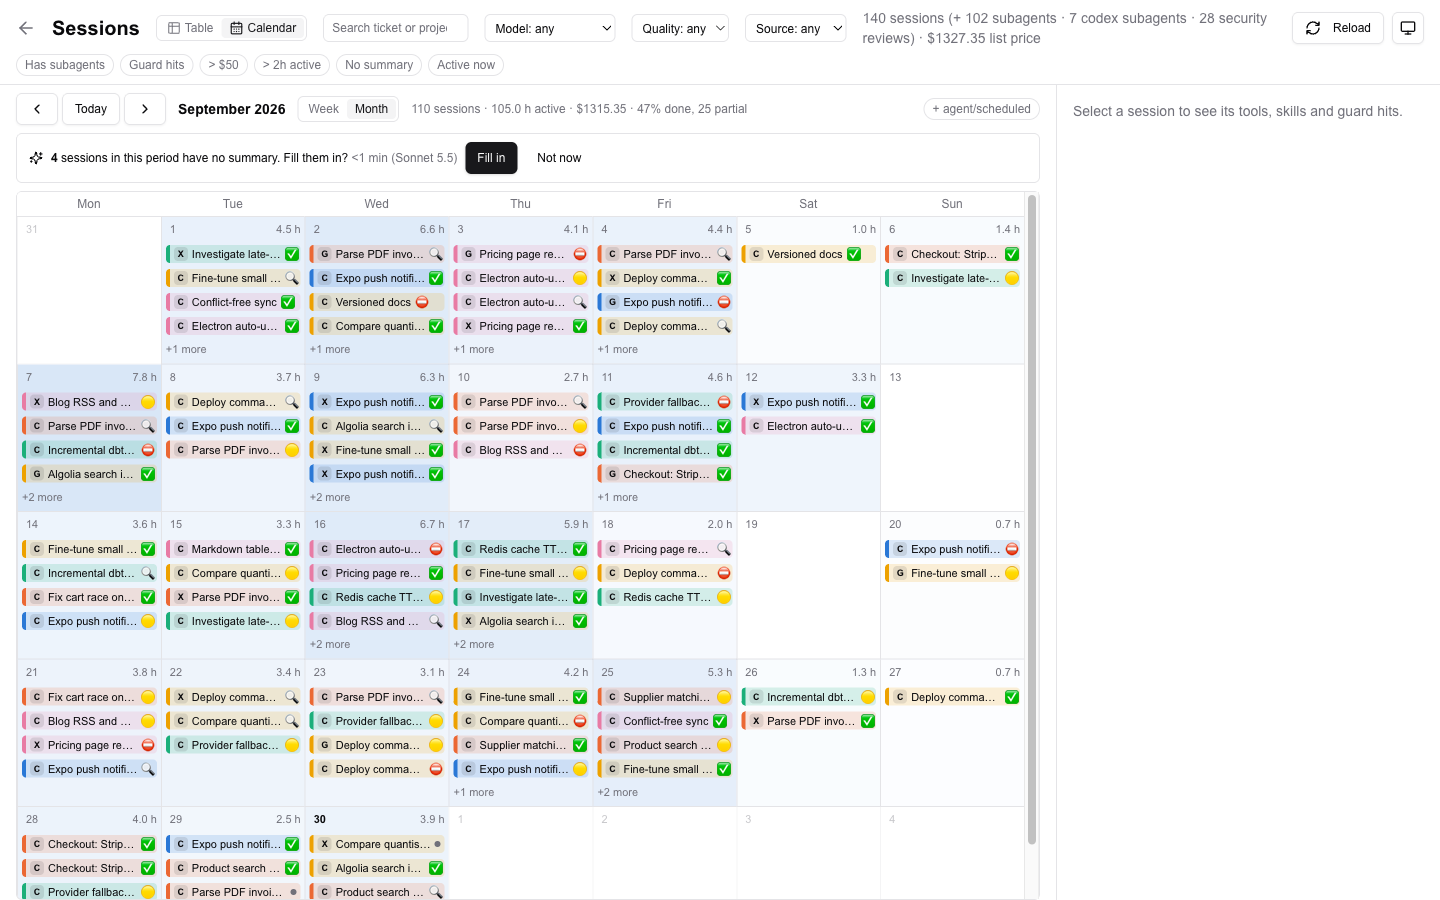
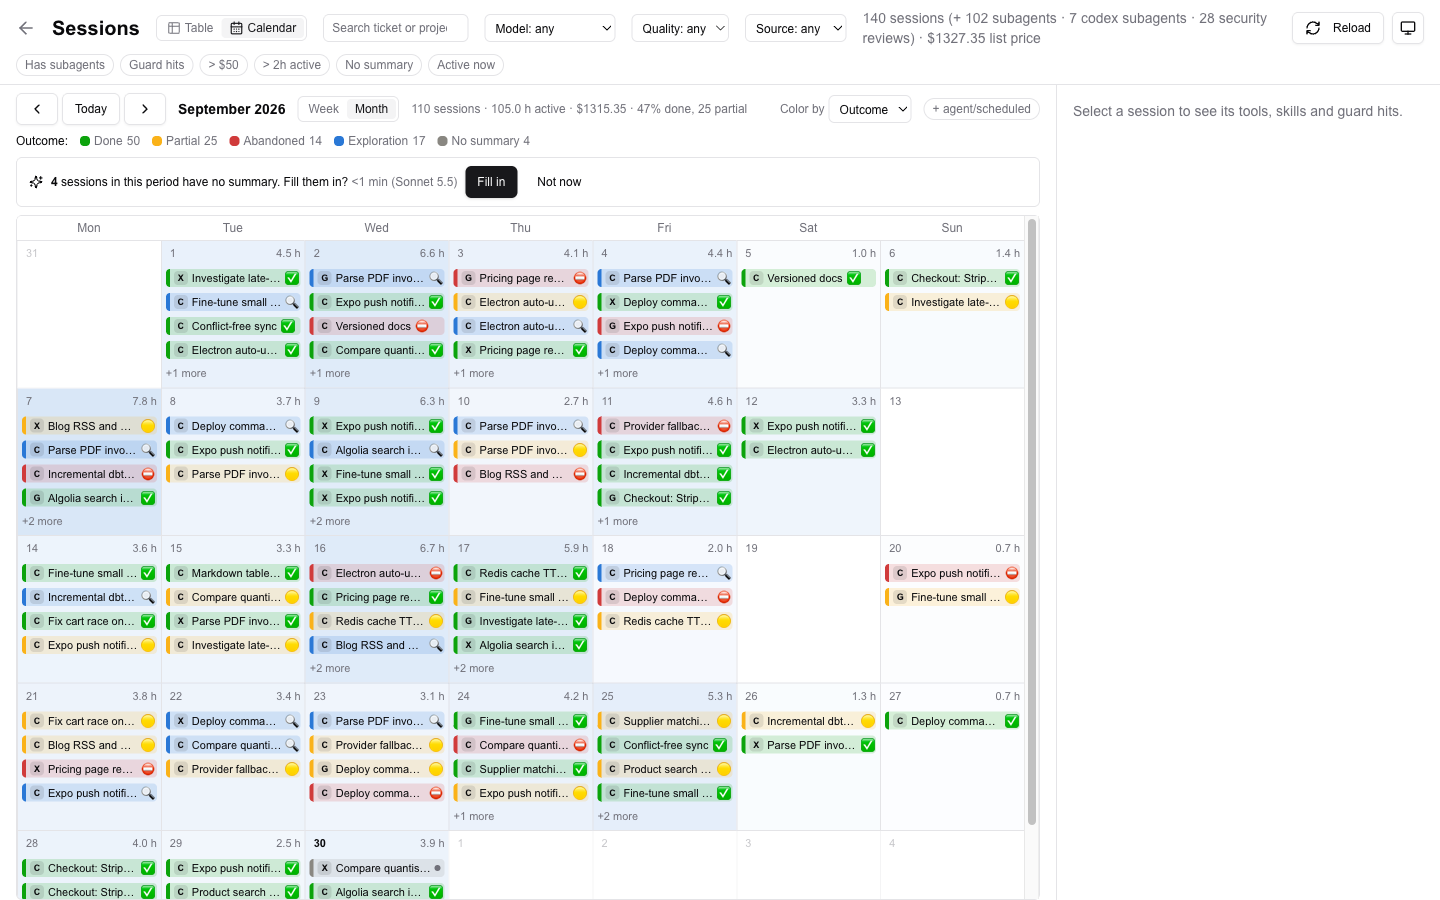
feat(sessions): switchable calendar colours (outcome, project, harness, kind, cost, quality) with legend

diff --git a/src/app/sessions/calendar-view.js b/src/app/sessions/calendar-view.js
@@ -5,8 +5,8 @@ import { format, isSameMonth, isToday } from 'date-fns'
 import { ChevronLeft, ChevronRight } from 'lucide-react'
 import { Button } from '@/components/ui/button'
 import {
-  bannerIds, calendarFamilies, calendarSlot, daySegment, harnessBadge, layoutDay, periodLabel, periodStats,
-  projectColor, shiftPeriod,
+  bannerIds, calendarFamilies, calendarSlot, colorBy, colorLegend, COLOR_MODES, DEFAULT_COLOR_MODE, daySegment,
+  harnessBadge, layoutDay, periodLabel, periodStats, shiftPeriod,
 } from '@/lib/cc/session-calendar.mjs'
 import { SummaryBanner } from './summary-banner'
 import { displayTitle, OUTCOME_ICON, parseSummary } from '@/lib/cc/summary-view.mjs'
@@ -15,6 +15,7 @@ const HOUR_PX = 44
 const projectName = (dir) => (dir ? dir.split('/').filter(Boolean).at(-1) : '—')
 const fmtCost = (c) => `$${(c || 0).toFixed(2)}`
 const fmtHours = (s) => `${(s / 3600).toFixed(1)} h`
+const COLOR_KEY = 'stow.calendar.colorBy'
 
 /**
  * `loadedKey`/`wantKey` (see loadKey): the families on hand may still be the
@@ -23,6 +24,15 @@ const fmtHours = (s) => `${(s / 3600).toFixed(1)} h`
  */
 export function CalendarView({ families, range, loadedKey, wantKey, selected, onOpen, onNavigate, onSpan, onRefresh }) {
   const [showAll, setShowAll] = useState(false)
+  // Per-viewer preference; read after mount so the server render stays stable.
+  const [colorMode, setColorMode] = useState(DEFAULT_COLOR_MODE)
+  useEffect(() => {
+    try { const v = localStorage.getItem(COLOR_KEY); if (v && COLOR_MODES[v]) setColorMode(v) } catch { /* storage blocked */ }
+  }, [])
+  function pickColor(v) {
+    setColorMode(v)
+    try { localStorage.setItem(COLOR_KEY, v) } catch { /* storage blocked */ }
+  }
   const events = useMemo(() => calendarFamilies(families, { showAll }), [families, showAll])
   const ready = loadedKey != null && loadedKey === wantKey
   const stats = ready ? periodStats(events.filter((e) => !e.muted)) : null
@@ -30,18 +40,20 @@ export function CalendarView({ families, range, loadedKey, wantKey, selected, on
   const missing = bannerIds({ loadedKey, wantKey, events })
   return (
     <div className="flex h-full min-w-0 flex-col">
-      <PeriodHeader range={range} stats={stats} showAll={showAll} onShowAll={setShowAll} onNavigate={onNavigate} onSpan={onSpan} />
+      <PeriodHeader range={range} stats={stats} showAll={showAll} onShowAll={setShowAll} onNavigate={onNavigate} onSpan={onSpan}
+        colorMode={colorMode} onColorMode={pickColor} />
+      <ColorLegend events={events} mode={colorMode} />
       <SummaryBanner ids={missing} periodKey={periodKey} onProgress={onRefresh} />
       {range.span === 'week'
-        ? <WeekGrid days={range.days} events={events} selected={selected} onOpen={onOpen} />
-        : <MonthGrid range={range} events={events} selected={selected} onOpen={onOpen} onNavigate={onNavigate} />}
+        ? <WeekGrid days={range.days} events={events} selected={selected} onOpen={onOpen} colorMode={colorMode} />
+        : <MonthGrid range={range} events={events} selected={selected} onOpen={onOpen} onNavigate={onNavigate} colorMode={colorMode} />}
     </div>
   )
 }
 
 const CHIPS_PER_DAY = 4
 
-function MonthGrid({ range, events, selected, onOpen, onNavigate }) {
+function MonthGrid({ range, events, selected, onOpen, onNavigate, colorMode }) {
   const byDay = useMemo(() => {
     const m = new Map()
     for (const e of events) {
@@ -83,7 +95,7 @@ function MonthGrid({ range, events, selected, onOpen, onNavigate }) {
             </div>
             <div className="space-y-0.5">
               {list.slice(0, CHIPS_PER_DAY).map((e) => (
-                <EventBlock key={e.session_id} e={e} compact selected={selected === e.session_id} onOpen={onOpen} />
+                <EventBlock key={e.session_id} e={e} compact colorMode={colorMode} selected={selected === e.session_id} onOpen={onOpen} />
               ))}
               {list.length > CHIPS_PER_DAY && (
                 <button onClick={() => openWeek(d)} className="text-[11px] text-muted-foreground hover:text-foreground">+{list.length - CHIPS_PER_DAY} more</button>
@@ -98,7 +110,7 @@ function MonthGrid({ range, events, selected, onOpen, onNavigate }) {
   )
 }
 
-function PeriodHeader({ range, stats, showAll, onShowAll, onNavigate, onSpan }) {
+function PeriodHeader({ range, stats, showAll, onShowAll, onNavigate, onSpan, colorMode, onColorMode }) {
   const doneShare = stats?.described ? Math.round((stats.done / stats.described) * 100) : null
   return (
     <div className="flex flex-wrap items-center gap-3 py-2">
@@ -120,14 +132,21 @@ function PeriodHeader({ range, stats, showAll, onShowAll, onNavigate, onSpan }) 
           {doneShare != null && ` · ${doneShare}% done, ${stats.partial} partial`}
         </> : 'Loading…'}
       </span>
+      <label className="ml-auto inline-flex items-center gap-1 text-xs text-muted-foreground">
+        Color by
+        <select value={colorMode} onChange={(ev) => onColorMode(ev.target.value)}
+          className="h-7 rounded-md border bg-transparent px-1.5 text-xs text-foreground focus:outline-none focus:ring-1 focus:ring-ring">
+          {Object.entries(COLOR_MODES).map(([k, m]) => <option key={k} value={k}>{m.label}</option>)}
+        </select>
+      </label>
       <button onClick={() => onShowAll(!showAll)} aria-pressed={showAll}
-        className={`ml-auto rounded-full border px-2 py-0.5 text-xs ${showAll ? 'border-primary bg-primary text-primary-foreground' : 'text-muted-foreground hover:bg-muted hover:text-foreground'}`}
+        className={`rounded-full border px-2 py-0.5 text-xs ${showAll ? 'border-primary bg-primary text-primary-foreground' : 'text-muted-foreground hover:bg-muted hover:text-foreground'}`}
         title="Also show agent spawns, scheduled runs and trivial sessions (muted)">+ agent/scheduled</button>
     </div>
   )
 }
 
-function WeekGrid({ days, events, selected, onOpen }) {
+function WeekGrid({ days, events, selected, onOpen, colorMode }) {
   const scroller = useRef(null)
   useEffect(() => { if (scroller.current) scroller.current.scrollTop = 7 * HOUR_PX }, [])
   const perDay = useMemo(() => days.map((day) => {
@@ -160,7 +179,7 @@ function WeekGrid({ days, events, selected, onOpen }) {
             <div key={+days[i]} className={`relative border-l ${isToday(days[i]) ? 'bg-muted/30' : ''}`}>
               {Array.from({ length: 24 }, (_, h) => <div key={h} className="absolute inset-x-0 border-t border-border/50" style={{ top: h * HOUR_PX }} />)}
               {segs.map((s) => (
-                <EventBlock key={s.e.session_id} e={s.e} selected={selected === s.e.session_id} onOpen={onOpen}
+                <EventBlock key={s.e.session_id} e={s.e} colorMode={colorMode} selected={selected === s.e.session_id} onOpen={onOpen}
                   style={{ top: (s.top / 60) * HOUR_PX, height: Math.max((s.height / 60) * HOUR_PX - 1, 14), left: `calc(${(s.col / s.cols) * 100}% + 1px)`, width: `calc(${100 / s.cols}% - 2px)` }} />
               ))}
             </div>
@@ -182,12 +201,29 @@ function OutcomeMark({ e }) {
   return <span title={sum.outcome} className="flex-none">{OUTCOME_ICON[sum.outcome] || ''}</span>
 }
 
-export function EventBlock({ e, style, selected, onOpen, compact = false }) {
+/** What the colours currently mean: one swatch per bucket, with how many shown sessions fall in it. */
+function ColorLegend({ events, mode }) {
+  const items = colorLegend(events, mode)
+  return (
+    <div className="mb-2 flex flex-wrap items-center gap-x-3 gap-y-1 text-xs text-muted-foreground" aria-label={`Colour legend: ${COLOR_MODES[mode]?.label}`}>
+      <span className="font-medium text-foreground">{COLOR_MODES[mode]?.label}:</span>
+      {items.map((b) => (
+        <span key={b.key} className={`inline-flex items-center gap-1 ${b.count === 0 ? 'opacity-50' : ''}`}>
+          {b.color && <span className="inline-block h-2.5 w-2.5 rounded-sm" style={{ background: b.color }} />}
+          {b.label} <span className="tabular-nums">{b.count}</span>
+        </span>
+      ))}
+    </div>
+  )
+}
+
+export function EventBlock({ e, style, selected, onOpen, compact = false, colorMode = DEFAULT_COLOR_MODE }) {
   const title = displayTitle(e) || 'Untitled session'
-  const color = projectColor(e.project_dir)
+  const bucket = colorBy(e, colorMode)
+  const color = bucket.color
   const r = e.rollup || e
   const mins = Math.round((r.active_s || 0) / 60)
-  const tip = `${title}\n${projectName(e.project_dir)} · ${format(new Date(e.started_at), 'HH:mm')} · ${mins} min active · ${fmtCost(r.cost_usd)}${e.sub_count ? ` · +${e.sub_count} sub` : ''}`
+  const tip = `${title}\n${projectName(e.project_dir)} · ${format(new Date(e.started_at), 'HH:mm')} · ${mins} min active · ${fmtCost(r.cost_usd)}${e.sub_count ? ` · +${e.sub_count} sub` : ''}\n${COLOR_MODES[colorMode]?.label}: ${bucket.label}`
   return (
     <button onClick={() => onOpen(e.session_id)} title={tip}
       className={`${compact ? 'relative w-full' : 'absolute'} overflow-hidden rounded-sm border-l-4 px-1 py-0.5 text-left text-[11px] leading-tight hover:z-10 hover:shadow ${e.muted ? 'opacity-50' : ''} ${selected ? 'ring-2 ring-ring' : ''}`}

diff --git a/src/app/globals.css b/src/app/globals.css
@@ -98,6 +98,15 @@ body {
   --viz-6: #008300;
   --viz-grid: #e1e0d9;
   --viz-axis: #898781;
+  /* Status (fixed, mode-invariant) — always paired with an icon + label. */
+  --status-good: #0ca30c;
+  --status-warning: #fab219;
+  --status-critical: #d03b3b;
+  /* One-hue ordinal ramp (blue), low → high; light mode starts at step 250. */
+  --seq-1: #86b6ef;
+  --seq-2: #3987e5;
+  --seq-3: #1c5cab;
+  --seq-4: #0d366b;
 }
 .dark {
   --viz-1: #3987e5;
@@ -108,4 +117,12 @@ body {
   --viz-6: #008300;
   --viz-grid: #2c2c2a;
   --viz-axis: #898781;
+  --status-good: #0ca30c;
+  --status-warning: #fab219;
+  --status-critical: #d03b3b;
+  /* Dark: low values recede toward the surface (no darker than step 600), high are bright. */
+  --seq-1: #184f95;
+  --seq-2: #2a78d6;
+  --seq-3: #5598e7;
+  --seq-4: #9ec5f4;
 }

diff --git a/CLAUDE.md b/CLAUDE.md
@@ -291,6 +291,7 @@ A second, session-centric view of Claude Code usage lives in `data/cc-sessions.d
 - **Summary v2**: `{v:2, title, what, outcome: done|partial|abandoned|exploration, improvements (≤5), followups (≤4), kind_hint, model, ms}`; v1 rows stay readable. Titles are never overwritten by summaries.
 - **Batch**: `POST /api/sessions/summarize-batch` (+ `estimate/`, range GET). Model `CC_SUMMARY_BATCH_MODEL` (default `claude-sonnet-5-5`), concurrency 3. Job state lives in SQLite `summary_jobs` (cross-process with the MCP server `summarize_sessions`, 60 s stale heartbeat). The runner never rejects and marks the job `stopped` on fatal errors; sessions whose last write is < 10 min old are skipped (10-min rule), and so are sessions whose transcript (`raw_ref`) is gone from disk. Concurrency is clamped to 1..8; a start with nothing to do inserts no job row and returns the latest job with `started: false`. `cc:eval` drives it with a live heartbeat clock. `openStore` sets `PRAGMA busy_timeout = 5000` for file DBs so the web app, CLI and MCP can share the DB. Estimate: `ceil(count/concurrency) x median(ms of last 50)`, fallback 30 s (Sonnet) / 10 s (haiku) per session.
 - **Calendar** (`/sessions?view=calendar&span=week|month&date=YYYY-MM-DD`): Table|Calendar toggle, local time, Monday first, max span one month, default shows only `work` (chip reveals agent/scheduled/trivial muted; `scheduled` gets a neutral badge). Placement: `end = ended_at` if span <= 5 h else `start + max(active_s, 30 min)`, min height 15 min. Banner scope = visible events (current period, filters, chip) with no summary at all (v0; `--upgrade` is CLI/MCP only), counted only once the loaded data matches the displayed view/period/project (`loadKey`/`bannerIds`). The page ignores stale load responses (latest request wins). One-off PoC import: `npm run cc:import-summaries`.
+- **Color by** (calendar header, per-viewer in localStorage `stow.calendar.colorBy`, default `outcome`): `COLOR_MODES` / `colorBy` / `colorLegend` in `session-calendar.mjs` — outcome (status colours `--status-*`, always paired with the outcome icon), project (hashed, 6 hues), harness and kind (categorical `--viz-*` in fixed order), cost and quality (one-hue ordinal ramp `--seq-1..4`, defined per theme in `globals.css`). A legend with per-bucket counts under the header says what the colours mean. Palettes were checked with the dataviz validator; outcome's red/green pair relies on the icon for CVD.
 
 ### Quick Filters
 

diff --git a/README.md b/README.md
@@ -23,7 +23,7 @@ Available as a **web app** or **native desktop app** (macOS).
 - **Size Metrics** - Shows code size vs total size (including node_modules, venv, etc.)
 - **README Viewer** - View project README files directly in the dashboard
 - **AI Session Viewer** - `/sessions` lists your agentic sessions from Claude Code, Codex and Antigravity (tokens, cost, tools, skills, guard hits, quality score, AI summaries) from a local SQLite store, grouped into families: expand a session to see its subagents and hook-spawned child sessions, with the whole package rolled up
-- **Session Calendar** - Week and month views of what you worked on, coloured by project, with a title, outcome (done / partial / abandoned / exploration) and cost on every block; scheduled runs and agent spawns hidden by default
+- **Session Calendar** - Week and month views of what you worked on, with a title, outcome and cost on every block. The colours can switch between outcome (default), project, harness, kind, cost and quality, and a legend with counts shows what they currently mean. Scheduled runs and agent spawns are hidden by default
 - **Batch Summaries** - The calendar offers to fill in missing AI summaries for exactly what is on screen (with a time estimate), shows progress, and shares one job with the CLI and the MCP server
 - **Analytics** - `/analytics` charts both worlds: agentic sessions (cost, models, tools, skills, quality; 7d–all range) and the project portfolio (categories, languages, AI cost, commit activity)
 - **MCP Server** - Expose project data to AI assistants (Claude Desktop, Claude Code)
@@ -35,7 +35,7 @@ Available as a **web app** or **native desktop app** (macOS).
 
 *All screenshots use synthetic demo data.*
 
-**Session calendar: month.** Every work session is a chip with its harness (C = Claude Code, X = Codex, G = Antigravity) and outcome. The banner offers to summarise the sessions on screen that have no summary yet.
+**Session calendar: month.** Every work session is a chip with its harness (C = Claude Code, X = Codex, G = Antigravity) and outcome icon, coloured here by outcome (see the legend; switch it with *Color by*). The banner offers to summarise the sessions on screen that have no summary yet.
 
 ![Session calendar, month view](docs/screenshots/sessions-calendar-month.png)
 
